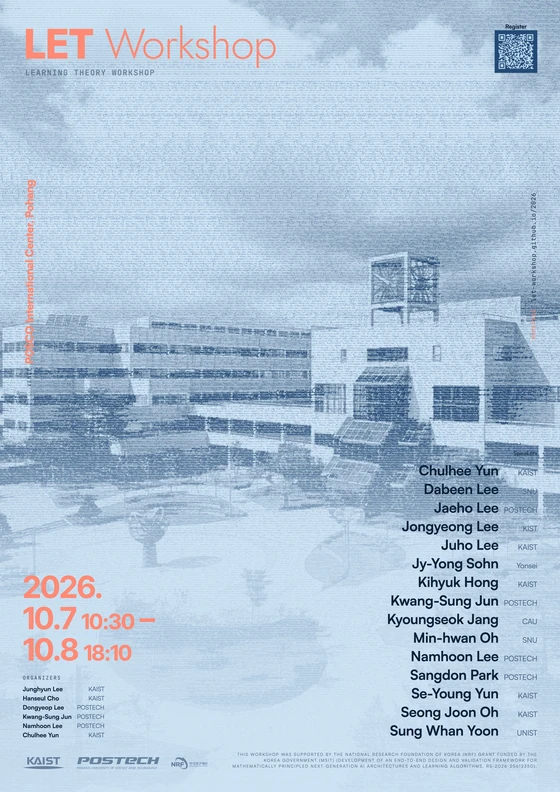
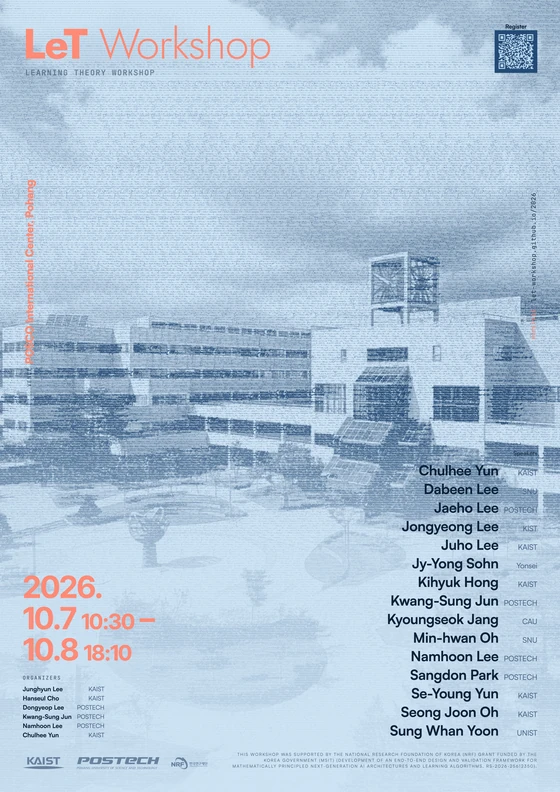
LeT, not LET
The mark is drawn letter by letter from the display face rather than set in it,
so this is not a find-and-replace: the wordmark, the square mark and the
favicon are all re-baked, and the rasters cut from them again — the two
favicons, the avatar and the link-preview card.

The square mark says LeT WS. The favicon keeps its single L, which the change
does not touch.

Changed region(s): [[0.0607, 0.0303, 0.4857, 0.0909]]

diff --git a/tools/poster.py b/tools/poster.py
@@ -237,7 +237,7 @@ def cutout_svg(source, shadow, highlight, width, height, contrast=0.95):
 def acronym_html(full_name, mark):
     """The full name with the letters that make the acronym picked out.
 
-    LET is spelled LEarning Theory workshop — the capitals inside the first
+    LeT is spelled LEarning Theory workshop — the capitals inside the first
     word are not a slip, they are what makes the E the second letter. Setting
     the name in capitals, which is what the sheets were doing, throws that
     away: it becomes three words in caps and the acronym is a coincidence
@@ -661,7 +661,7 @@ FESTIVAL = """<!doctype html>
      mark rather than as a line of its own, which is what it is — the mark
      spelled out. Held closer to the title and fainter for the same reason.
 
-     5.8mm, which is the size at which the line ends where the mark ends. LET
+     5.8mm, which is the size at which the line ends where the mark ends. LeT
      2026 sets 155mm. The face is monospaced, so the width goes with the
      character count and nothing else: at 6.5mm the shorter name set 154.7mm
      over 33 characters, and 1st adds four more.
@@ -1051,7 +1051,7 @@ FESTIVAL = """<!doctype html>
 
 BANNER = """<!doctype html>
 <html lang="en"><head><meta charset="utf-8">
-<title>LET 2026 — banner, 5000x900mm</title>
+<title>LeT Workshop — banner, 5000x900mm</title>
 <style>
   @page {{ size: 5000mm 900mm; margin: 0; }}
   @font-face {{ font-family:"Jost"; font-weight:100 900; src:url("fonts/jost-latin.woff2") format("woff2"); }}
@@ -1164,7 +1164,7 @@ BANNER = """<!doctype html>
 
 XBANNER = """<!doctype html>
 <html lang="en"><head><meta charset="utf-8">
-<title>LET 2026 — X-banner, 600x1800mm</title>
+<title>LeT Workshop — X-banner, 600x1800mm</title>
 <style>
   @page {{ size: 600mm 1800mm; margin: 0; }}
   @font-face {{ font-family:"Jost"; font-weight:100 900; src:url("fonts/jost-latin.woff2") format("woff2"); }}
@@ -1319,7 +1319,7 @@ XBANNER = """<!doctype html>
 
 SOCIAL = """<!doctype html>
 <html lang="en"><head><meta charset="utf-8">
-<title>LET 2026 — square set</title>
+<title>LeT Workshop — square set</title>
 <style>
   @font-face {{ font-family:"Jost"; font-weight:100 900; src:url("fonts/jost-latin.woff2") format("woff2"); }}
   @font-face {{ font-family:"Inter Tight"; font-weight:100 900; src:url("fonts/inter-tight-latin.woff2") format("woff2"); }}
@@ -1546,7 +1546,7 @@ SOCIAL = """<!doctype html>
 
 BADGE = """<!doctype html>
 <html lang="en"><head><meta charset="utf-8">
-<title>LET 2026 — name badges, 90x130mm</title>
+<title>LeT Workshop — name badges, 90x130mm</title>
 <style>
   @page {{ size: 90mm 130mm; margin: 0; }}
   @font-face {{ font-family:"Jost"; font-weight:100 900; src:url("fonts/jost-latin.woff2") format("woff2"); }}
@@ -1582,7 +1582,7 @@ BADGE = """<!doctype html>
   .pad {{ position:absolute; inset:0; padding:9mm 8mm 8mm; display:flex; flex-direction:column; }}
   .top {{ display:flex; align-items:baseline; justify-content:space-between; gap:4mm; }}
   /* 9mm and unbreakable. At 11 the mark measured 53mm of the 74mm the card
-     has, the date column took the rest, and LET 2026 wrapped onto two lines —
+     has, the date column took the rest, and the mark wrapped onto two lines —
      a wordmark split across a line break stops being a wordmark. */
   .mark {{
     font-family:"Jost",sans-serif; font-weight:700; font-size:9mm; white-space:nowrap;

diff --git a/tools/make-wordmark.py b/tools/make-wordmark.py
@@ -1,10 +1,10 @@
 #!/usr/bin/env python3
-"""Bake the LET wordmark from the display font into SVG paths.
+"""Bake the LeT wordmark from the display font into SVG paths.
 
     python3 tools/make-wordmark.py
 
 Writes templates/wordmark.svg (letters only, inherits colour), and
-static/let-logo.svg (LET WS in a navy rounded square, for a profile
+static/let-logo.svg (LeT WS in a navy rounded square, for a profile
 picture) + static/favicon.svg (one letter, for 16px).
 
 Outlines are baked to paths rather than left as <text font-family="…">, because
@@ -28,11 +28,11 @@ from fontTools.varLib import instancer
 
 ROOT = Path(__file__).resolve().parent.parent
 FONT = ROOT / "static" / "fonts" / "jost-latin.woff2"
-WORD = "LET"
+WORD = "LeT"
 # What the square mark says. The wordmark is the name as it is set in running
 # text; this is the name as it has to survive being 40px wide next to somebody
 # else's avatar, where three letters on their own could be anything.
-SQUARE = ("LET", "WS")
+SQUARE = ("LeT", "WS")
 WEIGHT = 900
 TRACK = 30  # extra letterspacing in font units — a wordmark wants a little air
 NAVY = "#14213d"
@@ -88,13 +88,13 @@ def main() -> None:
     def stacked(words, target):
         """Two words on two rows, at one scale, centred as a block.
 
-        The square mark says LET WS, not LET: on a profile the acronym on its
+        The square mark says LeT WS, not LeT: on a profile the acronym on its
         own is three letters that could be anything, and "workshop" is what
         turns them into the name of a thing. Set on one line those six
         characters would be a third the height they are here — a square wants
         its content square, and two rows of three is the shape that fills it.
 
-        One scale for both rows rather than each fitted to the width, or LET
+        One scale for both rows rather than each fitted to the width, or LeT
         and WS would be set in two different sizes and read as two marks.
         """
         drawn = [draw(w) for w in words]

diff --git a/tools/export-poster.py b/tools/export-poster.py
@@ -190,7 +190,7 @@ def main():
             shutil.copy(work / f"{name}.html", folder / f"{stem}-source.html")
             print(run(sys.executable, ROOT / "tools/poster-svg.py", work / f"{name}.html",
                       "-o", folder / f"{stem}.svg",
-                      "--title", "LET 2026 — A2 poster").strip().splitlines()[-1])
+                      "--title", "LeT Workshop — A2 poster").strip().splitlines()[-1])
 
             # The website's copies, trimmed to the sheet: the bleed is for a
             # guillotine, and on screen it is 3mm of ground past the edge of

diff --git a/tools/poster-svg.py b/tools/poster-svg.py
@@ -307,7 +307,7 @@ def main():
                                  formatter_class=argparse.RawDescriptionHelpFormatter)
     ap.add_argument("page", help="a rendered poster .html, in a directory served on port %d" % PORT)
     ap.add_argument("-o", "--out", default="poster.svg")
-    ap.add_argument("--title", default="LET 2026 — A2 poster")
+    ap.add_argument("--title", default="LeT Workshop — A2 poster")
     args = ap.parse_args()
 
     if not Path(CHROME).exists():
